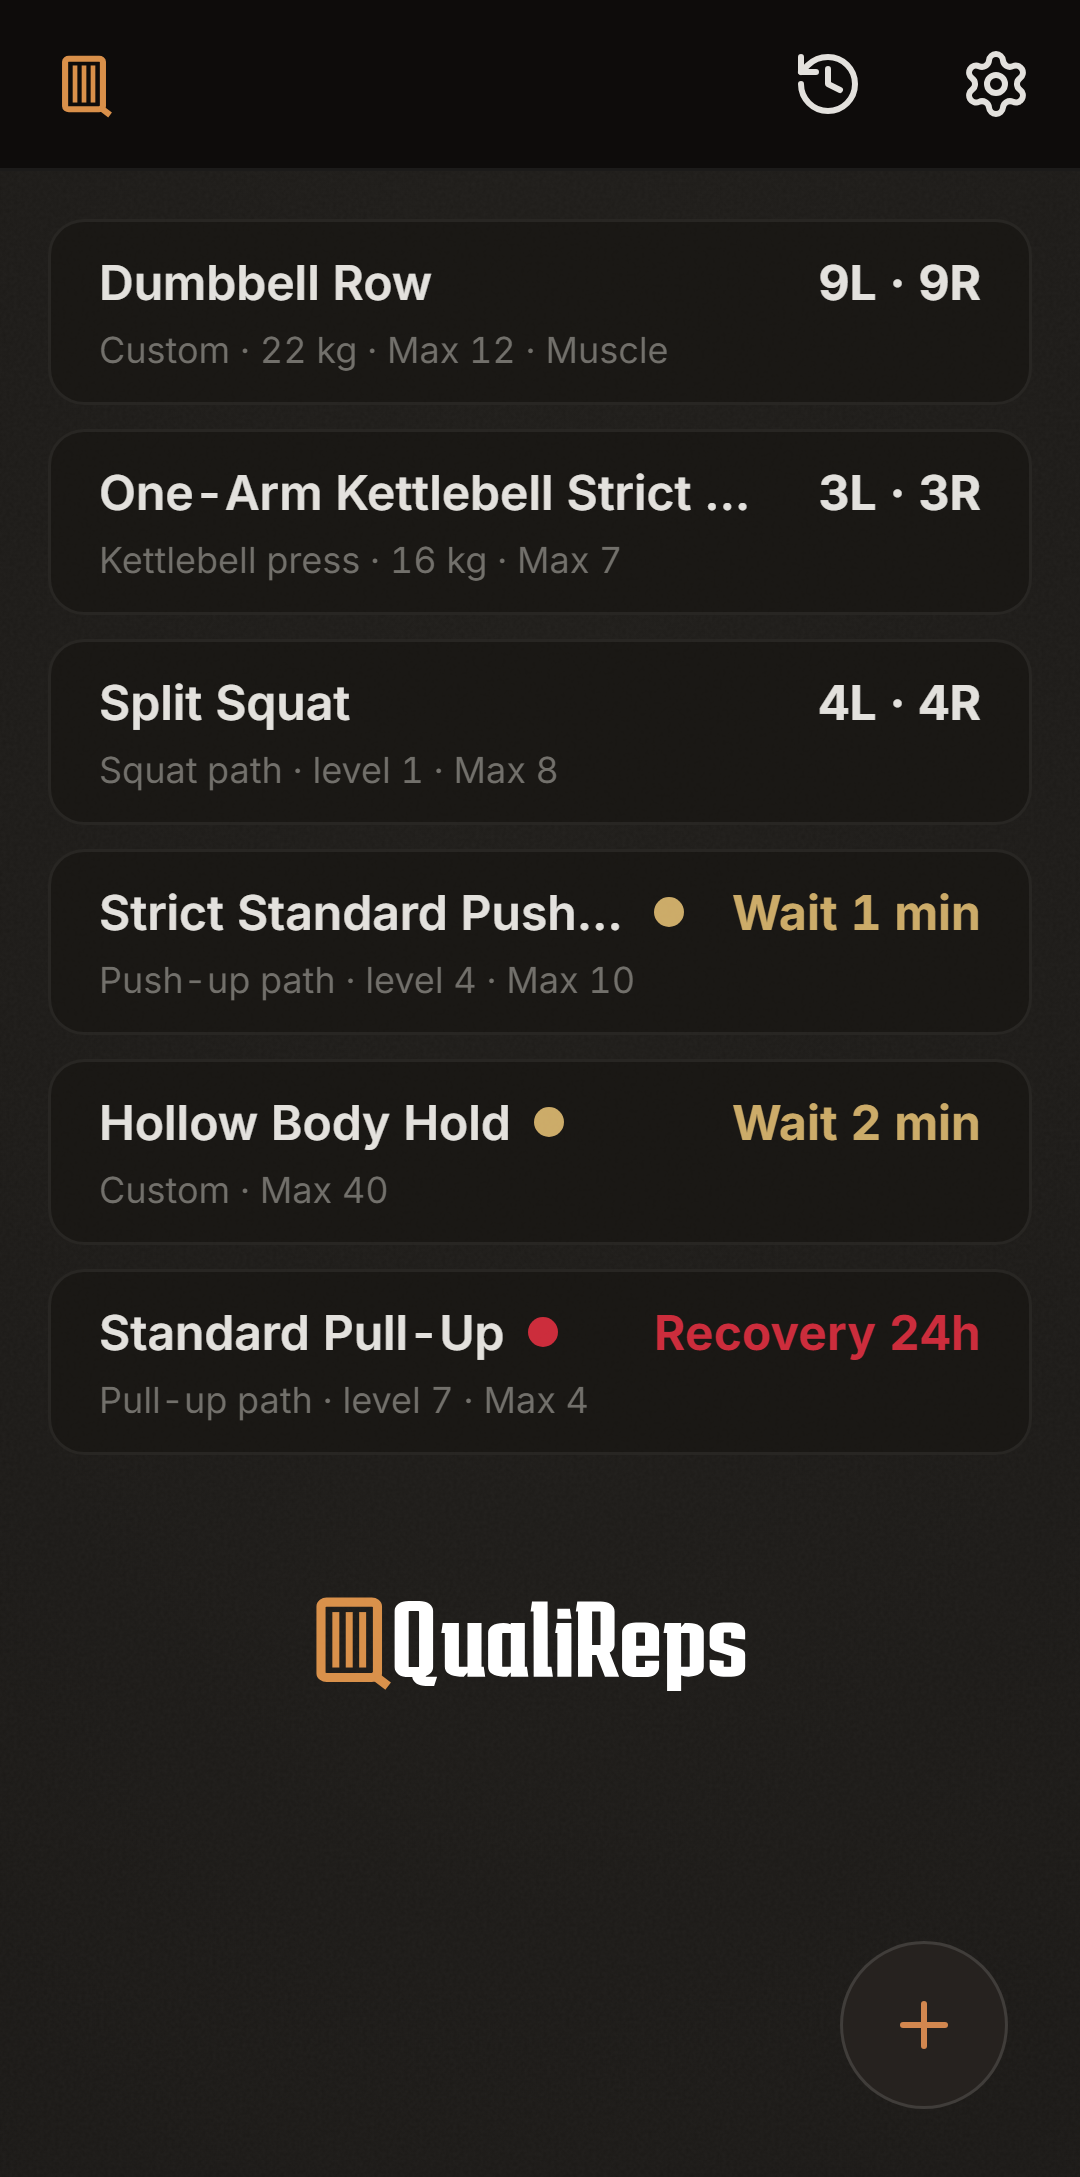
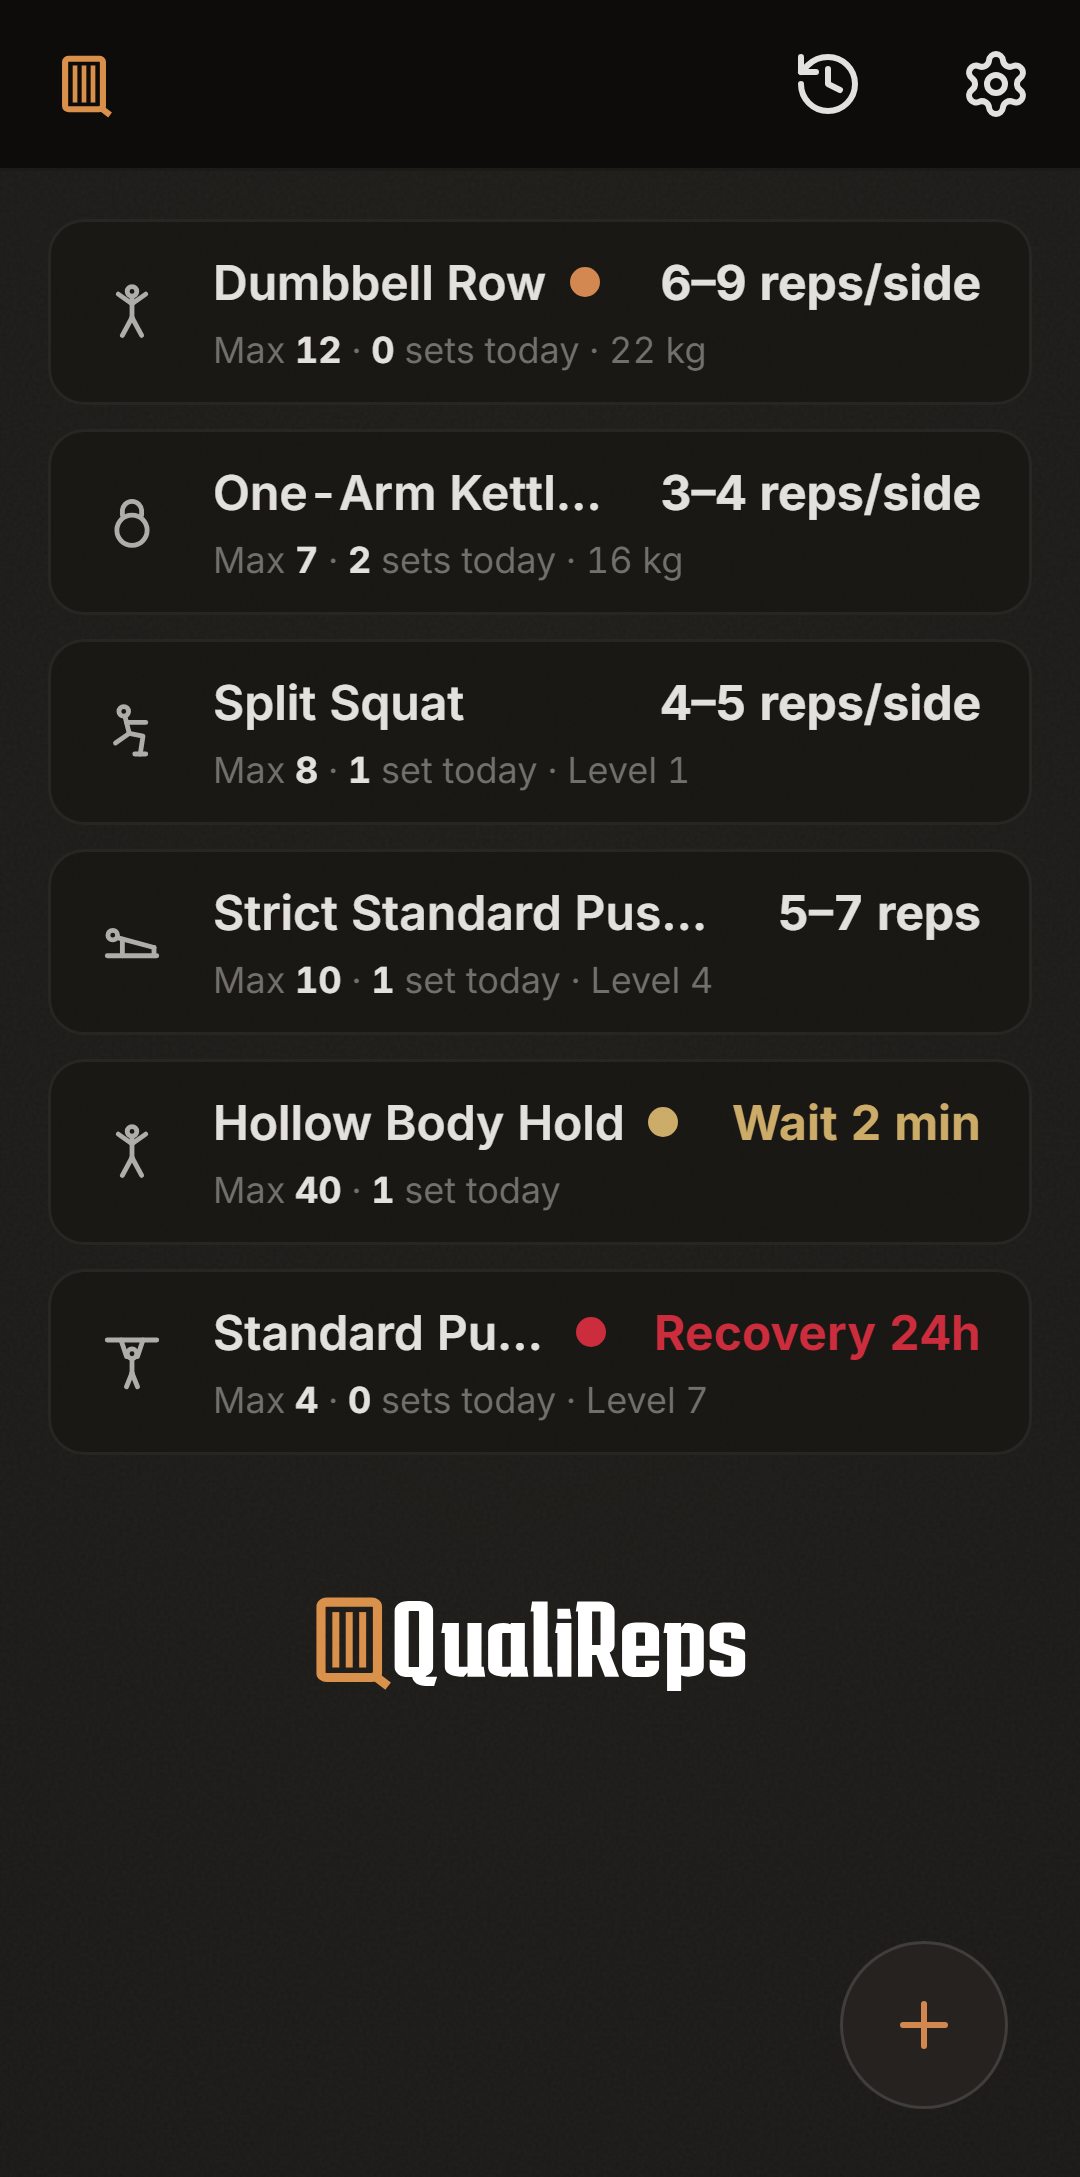
copy: align site with app lot B (qualireps-v2 @ e004800)
- Re-sync form guides from qualireps-v2 @ e004800 (ranges, no focus).
- Replace screenshots 01, 03, 06; rewrite their alt text.
- Home, FAQ, How it works: next set as a range, rest from the reserve
  tapped (0 · 1 · 2 · 3+), max re-estimation, criterion 10 for own
  loaded exercises (kettlebell 12); drop Focus and "It felt hard".
- PRODUCT_STATE: no GtG as the core, no Focus.

diff --git a/src/content/forms/hero-paths/squat/free-pistol.md b/src/content/forms/hero-paths/squat/free-pistol.md
@@ -42,6 +42,4 @@ The endpoint stays active after the criterion is met.
 > **A note on anatomy.** The strict free pistol is partly a question of body proportions. Longer femurs relative to the shins, or stubborn ankle-mobility limits, can make it mechanically hard regardless of strength. If it stalls after long practice and honest ankle work, that may be anatomy, not a training failure — a lasting practice at the counterweight levels (7–8) is a legitimate strength endpoint in its own right. The strict free pistol is one valid endpoint, not the only one.
 
 ## Dose
-Test a clean max per side, then practice at half of the weaker side (rounded down), max 5 reps per set, always leaving at least 2 reps in reserve, same count both sides, weaker side first. At a 3-rep criterion, the daily set is typically 1 clean rep per side.
-
-With the Muscle focus: your weaker side's max minus 3 reps per set, same count both sides, never fewer than above, no cap of 5.
+Test a clean max per side, then practice in a range: from half of the weaker side (rounded down) to its max minus 3, always leaving at least 2 reps in reserve, same count both sides, weaker side first. At a 3-rep criterion, the daily set is typically 1 clean rep per side.

diff --git a/docs/PRODUCT_STATE.md b/docs/PRODUCT_STATE.md
@@ -6,7 +6,7 @@ confirmed from code or git are marked **(to verify)**._
 ## 1. What this repo is
 
 `qualireps-site` is the public landing, legal, and perfect-form-guide site for
-**QualiReps**, a strength ledger for daily (Greasing-the-Groove) practice. The
+**QualiReps**, a strength ledger for bodyweight, kettlebell and custom exercises. The
 product itself is a separate installable PWA served from `app.qualireps.app`;
 this repo is the marketing/legal/SEO front served at the production origin
 **https://qualireps.app**. It is a mostly-static Astro site with a small number
@@ -28,7 +28,7 @@ of serverless endpoints for Paddle checkout fulfillment.
 Pages (`src/pages/`):
 - `/` — home: the strength ledger (sections 0–10 of qualireps-v2's
   `qualireps-audit/Landing page textes.md`), three-platform install block.
-- `/how-it-works` — the exact rules (max, set size by Focus, rest, recovery,
+- `/how-it-works` — the exact rules (max, set range, reserve and rest, recovery,
   levels and loads, past sets, rest days), checked against the app code.
 - `/pricing` — single-story pricing (9,99 €, lifetime, no subscription).
 - `/buy` — Paddle checkout overlay (gated by `CHECKOUT_LIVE`).

diff --git a/src/content/forms/hero-paths/squat/pistol-heavy-counterweight-heel-elevated.md b/src/content/forms/hero-paths/squat/pistol-heavy-counterweight-heel-elevated.md
@@ -38,6 +38,4 @@ Inhale on the descent, exhale on the drive up. A brief brace at the bottom is fi
 - *Easier:* taller block; heavier counterweight; a fingertip on a side support for balance.
 
 ## Dose
-Set your block and counterweight, test a clean max per side at that setting, then practice at half of the weaker side (rounded down), max 5 reps per set, always leaving at least 2 reps in reserve, same count both sides, weaker side first. Keep the block and weight fixed across max tests and daily sets; reduce them deliberately, then re-test.
-
-With the Muscle focus: your weaker side's max minus 3 reps per set, same count both sides, never fewer than above, no cap of 5.
+Set your block and counterweight, test a clean max per side at that setting, then practice in a range: from half of the weaker side (rounded down) to its max minus 3, always leaving at least 2 reps in reserve, same count both sides, weaker side first. Keep the block and weight fixed across max tests and daily sets; reduce them deliberately, then re-test.

diff --git a/src/content/forms/hero-paths/squat/single-leg-box-squat-low.md b/src/content/forms/hero-paths/squat/single-leg-box-squat-low.md
@@ -37,6 +37,4 @@ Inhale on the descent, exhale on the drive up.
 - *Easier:* raise the surface (back toward the chair); fingertip on a side support.
 
 ## Dose
-Test a clean max per side, then practice at half of the weaker side (rounded down), max 5 reps per set, always leaving at least 2 reps in reserve, same count both sides, weaker side first. If progress stalls here despite weeks of practice, the limiter is usually ankle mobility, not strength — keep the chair box as the working level while the ankle opens up.
-
-With the Muscle focus: your weaker side's max minus 3 reps per set, same count both sides, never fewer than above, no cap of 5.
+Test a clean max per side, then practice in a range: from half of the weaker side (rounded down) to its max minus 3, always leaving at least 2 reps in reserve, same count both sides, weaker side first. If progress stalls here despite weeks of practice, the limiter is usually ankle mobility, not strength — keep the chair box as the working level while the ankle opens up.

diff --git a/src/content/forms/hero-paths/pull/one-arm-pull-up.md b/src/content/forms/hero-paths/pull/one-arm-pull-up.md
@@ -40,6 +40,4 @@ The endpoint stays active after the criterion is met.
 - *Easier:* drop back to the one-arm lock-off (level 11) for the top hold and controlled descent, or re-introduce a touch of free-hand help (the assisted level's convention).
 
 ## Dose
-Test a clean max on each side, then practice at half of the weaker side (rounded down), max 5 reps per set, always leaving at least 2 reps in reserve, same count both sides, weaker side first. At the endpoint the daily set is typically a single clean rep per side. Stop well short of form breakdown.
-
-With the Muscle focus: your weaker side's max minus 3 reps per set, same count both sides, never fewer than above, no cap of 5.
+Test a clean max on each side, then practice in a range: from half of the weaker side (rounded down) to its max minus 3, always leaving at least 2 reps in reserve, same count both sides, weaker side first. At the endpoint the daily set is typically a single clean rep per side. Stop well short of form breakdown.

diff --git a/src/content/forms/hero-paths/squat/pistol-heavy-counterweight-heel-flat.md b/src/content/forms/hero-paths/squat/pistol-heavy-counterweight-heel-flat.md
@@ -38,6 +38,4 @@ Inhale on the descent, exhale on the drive up; brief brace at the bottom is fine
 - *Easier:* re-introduce a small heel block (back to level 6); a fingertip for balance.
 
 ## Dose
-Test a clean max per side, then practice at half of the weaker side (rounded down), max 5 reps per set, always leaving at least 2 reps in reserve, same count both sides, weaker side first. If this stalls for weeks, the cause is almost always ankle mobility — hold level 6 as the strength level and work the ankle in parallel.
-
-With the Muscle focus: your weaker side's max minus 3 reps per set, same count both sides, never fewer than above, no cap of 5.
+Test a clean max per side, then practice in a range: from half of the weaker side (rounded down) to its max minus 3, always leaving at least 2 reps in reserve, same count both sides, weaker side first. If this stalls for weeks, the cause is almost always ankle mobility — hold level 6 as the strength level and work the ankle in parallel.

diff --git a/src/content/forms/hero-paths/squat/pistol-light-counterweight.md b/src/content/forms/hero-paths/squat/pistol-light-counterweight.md
@@ -38,6 +38,4 @@ Inhale on the descent, exhale on the drive up; brief brace at the bottom is fine
 - *Easier:* a bit more counterweight (toward level 7); a fingertip for balance.
 
 ## Dose
-Test a clean max per side, then practice at half of the weaker side (rounded down), max 5 reps per set, always leaving at least 2 reps in reserve, same count both sides, weaker side first. Expect this to feel harder than the small weight change suggests — losing the heavy weight's balancing effect is the real step.
-
-With the Muscle focus: your weaker side's max minus 3 reps per set, same count both sides, never fewer than above, no cap of 5.
+Test a clean max per side, then practice in a range: from half of the weaker side (rounded down) to its max minus 3, always leaving at least 2 reps in reserve, same count both sides, weaker side first. Expect this to feel harder than the small weight change suggests — losing the heavy weight's balancing effect is the real step.

diff --git a/src/content/forms/hero-paths/pull/assisted-one-arm-pull-up.md b/src/content/forms/hero-paths/pull/assisted-one-arm-pull-up.md
@@ -42,6 +42,4 @@ Exhale on the pull, inhale on the lower.
 - *Easier:* more help — higher band grip, raise the towel hand, or more fingers.
 
 ## Dose
-Set your assist convention, test your max on each side at that convention, then practice at half of the weaker side (rounded down), max 5 reps per set, always leaving at least 2 reps in reserve, same count both sides, weaker side first. When you can do clean reps at minimal help, you're ready for the one-arm pull-up.
-
-With the Muscle focus: your weaker side's max minus 3 reps per set, same count both sides, never fewer than above, no cap of 5.
+Set your assist convention, test your max on each side at that convention, then practice in a range: from half of the weaker side (rounded down) to its max minus 3, always leaving at least 2 reps in reserve, same count both sides, weaker side first. When you can do clean reps at minimal help, you're ready for the one-arm pull-up.

diff --git a/src/content/forms/hero-paths/push/one-arm-self-assisted-push-up.md b/src/content/forms/hero-paths/push/one-arm-self-assisted-push-up.md
@@ -40,6 +40,4 @@ Brace and inhale before the descent; decisive sharp exhale through the press.
 - *Easier:* increase the contact slightly (more of the fingers on the floor). Use 3 s descents to build strength at the bottom range.
 
 ## Dose
-Test a clean max on each side (with the current level of fingertip assist); work at half of the weaker side (rounded down), max 5 reps per set, always leaving at least 2 reps in reserve, same count both sides, weaker side first. Stop each set well short of failure.
-
-With the Muscle focus: your weaker side's max minus 3 reps per set, same count both sides, never fewer than above, no cap of 5.
+Test a clean max on each side (with the current level of fingertip assist); work in a range: from half of the weaker side (rounded down) to its max minus 3, always leaving at least 2 reps in reserve, same count both sides, weaker side first. Stop each set well short of failure.

diff --git a/src/content/forms/hero-paths/pull/australian-pull-up-low-angle.md b/src/content/forms/hero-paths/pull/australian-pull-up-low-angle.md
@@ -37,8 +37,6 @@ Exhale on the pull, inhale on the lower.
 - *Easier:* feet a small step back, or a higher bar.
 
 ## Dose
-Test your max in clean form, then practice at half of it (rounded down), max 5 reps per set, always leaving at least 2 reps in reserve. Clean reps over count — at this load the difference is what makes level 6 reachable.
-
-With the Muscle focus: your max minus 3 reps per set, never fewer than above, no cap of 5.
+Test your max in clean form, then practice in a range: from half of it (rounded down) to your max minus 3, always leaving at least 2 reps in reserve. Clean reps over count — at this load the difference is what makes level 6 reachable.
 
 *No adjustable bar? Keep the level-3 bar and raise your heels on a box or low bench about 35 cm high to reach ~15°. Walking the feet forward does not work: the chest can no longer reach the bar, the neck gets there first.*

diff --git a/src/content/forms/hero-paths/push/one-arm-incline-push-up-90cm.md b/src/content/forms/hero-paths/push/one-arm-incline-push-up-90cm.md
@@ -41,6 +41,4 @@ Inhale and brace at the top; pressurized exhale through the press out of the bot
 - *Easier:* widen the feet for a more stable base. If balance is the limiter, rest the free-hand fingertips on the support beside the working hand and lean on them less over time.
 
 ## Dose
-Test a clean max on each side; work at half of the weaker side (rounded down), max 5 reps per set, always leaving at least 2 reps in reserve, same count both sides, weaker side first. Stop each set well short of failure.
-
-With the Muscle focus: your weaker side's max minus 3 reps per set, same count both sides, never fewer than above, no cap of 5.
+Test a clean max on each side; work in a range: from half of the weaker side (rounded down) to its max minus 3, always leaving at least 2 reps in reserve, same count both sides, weaker side first. Stop each set well short of failure.

diff --git a/src/content/forms/hero-paths/squat/pistol-arms-counterweight.md b/src/content/forms/hero-paths/squat/pistol-arms-counterweight.md
@@ -38,6 +38,4 @@ Inhale on the descent, exhale on the drive up; brief brace at the bottom is fine
 - *Easier:* a token light weight in the hands (back to level 8); a fingertip for balance.
 
 ## Dose
-Test a clean max per side, then practice at half of the weaker side (rounded down), max 5 reps per set, always leaving at least 2 reps in reserve, same count both sides, weaker side first. At a 3-rep criterion, the daily set is typically 1 clean rep per side.
-
-With the Muscle focus: your weaker side's max minus 3 reps per set, same count both sides, never fewer than above, no cap of 5.
+Test a clean max per side, then practice in a range: from half of the weaker side (rounded down) to its max minus 3, always leaving at least 2 reps in reserve, same count both sides, weaker side first. At a 3-rep criterion, the daily set is typically 1 clean rep per side.
